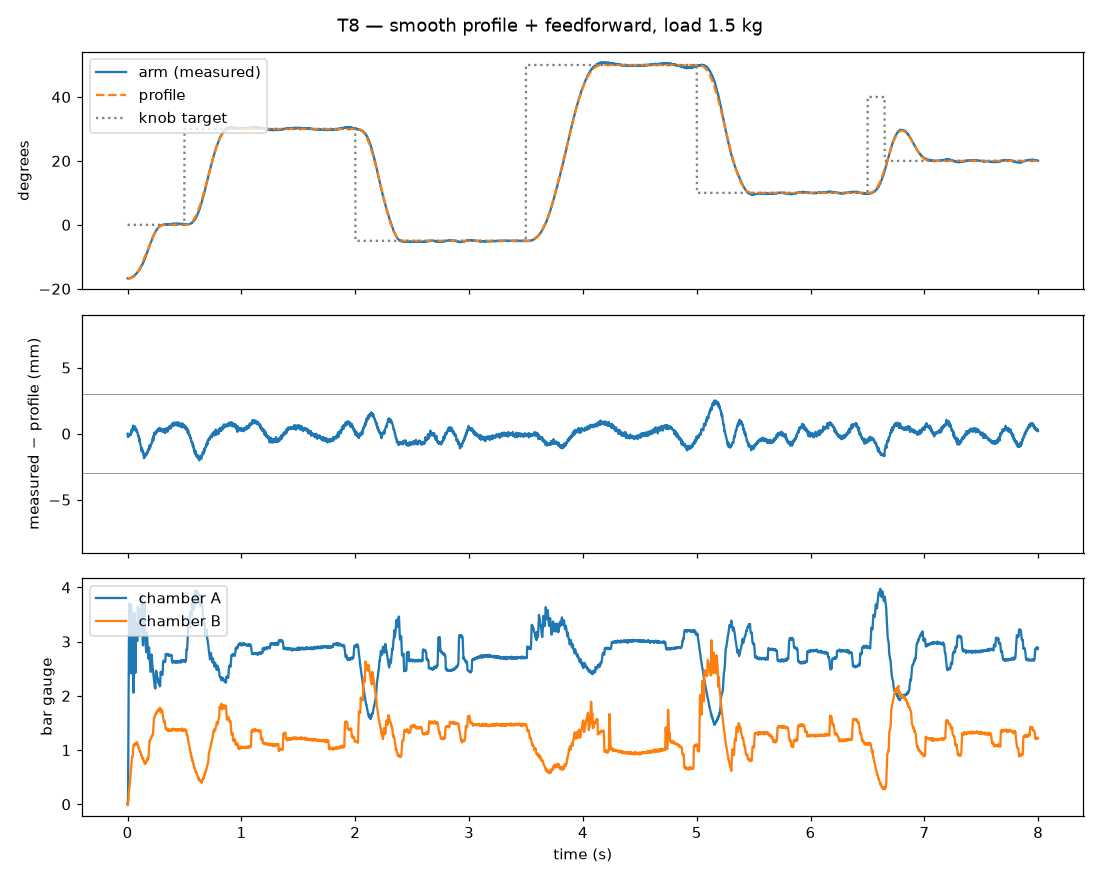
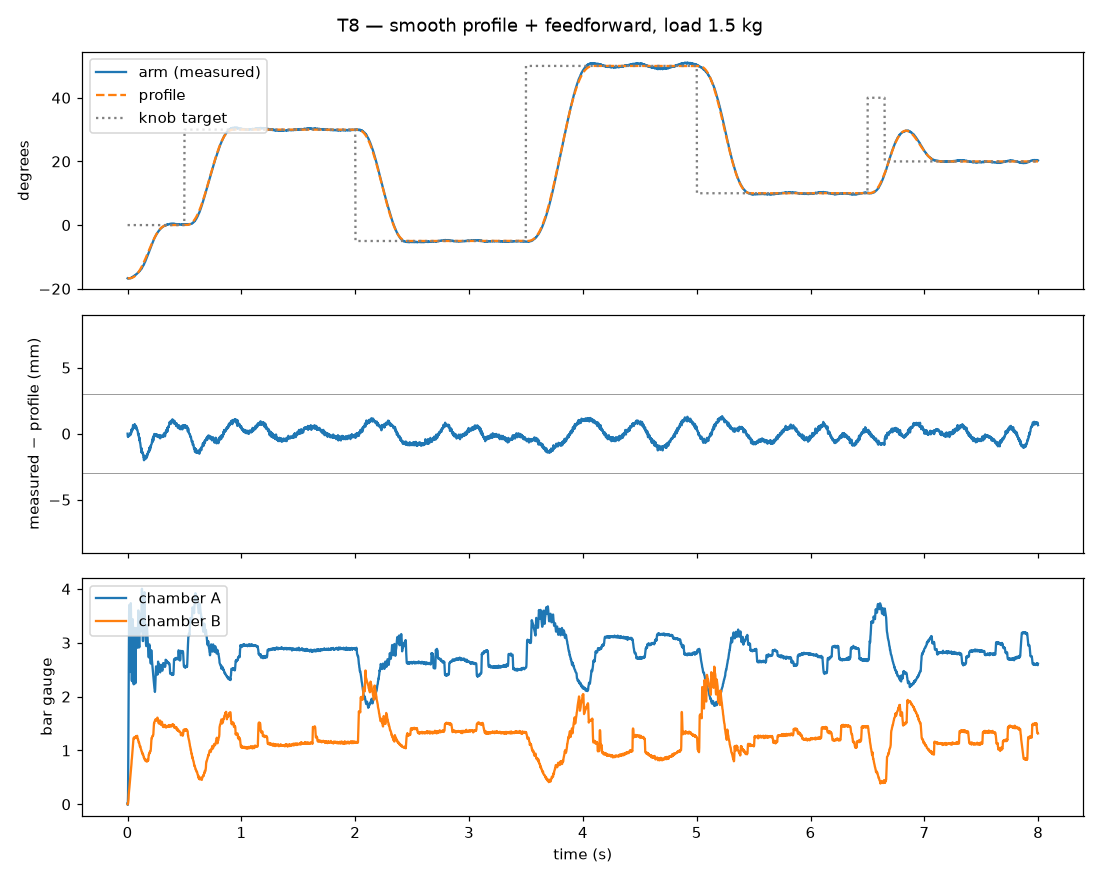
test1 T8: profile limits with 10% margin in time below the fastest that passes
170°/s, 1550°/s², 24000°/s³ (1.1× as fast still passes, 1.15× does not). Results
table now lists faster profiles as a factor and the load setting ±10% / ±20%.

diff --git a/test1/sim/run.py b/test1/sim/run.py
@@ -293,11 +293,14 @@ def scenario_t8_all():
     with Pool() as pool:
         res["default"] = t8_summary({}, pool)
         res["t3_controller"] = t8_summary(dict(mode=control.POSITION), pool)
+        # faster profiles: durations / k, so speed × k, acceleration × k², jerk × k³
         res["limits"] = []
-        for alpha in (1000.0, P.MOVE_ALPHA_MAX, 2000.0, 2500.0):
-            kw = dict(alpha_max=alpha, w_max=alpha / 10, cfg_over=dict(move_jerk_max=P.MOVE_JERK_MAX * alpha / P.MOVE_ALPHA_MAX))
-            res["limits"].append(dict(alpha_max=alpha, w_max=alpha / 10, **t8_summary(kw, pool)))
-        res["load_setting"] = [dict(load_kg=lk, **t8_summary(dict(load_kg=lk), pool)) for lk in (1.2, 1.8)]
+        for k in (1.1, 1.15, 1.3):
+            over = dict(move_w_max=P.MOVE_W_MAX * k, move_alpha_max=P.MOVE_ALPHA_MAX * k * k,
+                        move_jerk_max=P.MOVE_JERK_MAX * k ** 3)
+            res["limits"].append(dict(k=k, **t8_summary(dict(cfg_over=over), pool)))
+        res["load_setting"] = [dict(load_kg=round(P.TIP_MASS * f, 2), **t8_summary(dict(load_kg=P.TIP_MASS * f), pool))
+                               for f in (0.9, 1.1, 0.8, 1.2)]
     return res
 
 
@@ -366,8 +369,7 @@ def write_markdown(res):
                 f"{m['replan_track_mm']} | {yn(m['passed'])} |")
     lines.append(srow(f"profile {P.MOVE_W_MAX:g}°/s, {P.MOVE_ALPHA_MAX:g}°/s² (params.py)", t8["default"]))
     for m in t8["limits"]:
-        if m["alpha_max"] != P.MOVE_ALPHA_MAX:
-            lines.append(srow(f"profile {m['w_max']:g}°/s, {m['alpha_max']:g}°/s²", m))
+        lines.append(srow(f"{m['k']:g}× as fast ({P.MOVE_W_MAX * m['k']:.0f}°/s, {P.MOVE_ALPHA_MAX * m['k'] ** 2:.0f}°/s²)", m))
     for m in t8["load_setting"]:
         lines.append(srow(f"load set to {m['load_kg']} kg (real {P.TIP_MASS} kg)", m))
     lines.append(srow(f"T3 controller (ramp {P.V_MAX:g} mm/s, no feedforward)", t8["t3_controller"]))

diff --git a/test1/params.py b/test1/params.py
@@ -79,10 +79,12 @@ P_DEADBAND = 0.1             # bar
 SOFT_LIMIT = 5.0             # mm, stay away from both end stops
 V_MAX = 250.0                # mm/s, maximum speed of the target (full stroke in ~0.6 s)
 P_MAX = 6.0                  # bar; above this: vent and, if it persists, fault
-# move (T8): smooth profile + feedforward; limits found with `python sim/run.py --t8`
-MOVE_W_MAX = 150.0           # degrees/s, peak speed of the arm in the profile
-MOVE_ALPHA_MAX = 1500.0      # degrees/s², peak acceleration of the arm in the profile
-MOVE_JERK_MAX = 25000.0      # degrees/s³: how fast the force may change (the valves need time to swap the pressures)
+# move (T8): smooth profile + feedforward. The fastest profile that meets the T8 criteria in
+# the simulation is about 1.1× this one (190°/s, 1900°/s²); these limits keep 10% margin
+# in time (speed × 1/1.1, acceleration × 1/1.1², jerk × 1/1.1³). See out/sim/results.md.
+MOVE_W_MAX = 170.0           # degrees/s, peak speed of the arm in the profile
+MOVE_ALPHA_MAX = 1550.0      # degrees/s², peak acceleration of the arm in the profile
+MOVE_JERK_MAX = 24000.0      # degrees/s³: how fast the force may change (the valves need time to swap the pressures)
 FF_FRICTION = CYL["friction_coulomb"]   # N, cylinder seal friction in the feedforward (measure in T3/T4)
 FF_VISCOUS = 0.0             # N·s/m
 

diff --git a/test1/firmware/config.py b/test1/firmware/config.py
@@ -20,9 +20,9 @@ CFG = {
     'pos_deadband': 0.3,
     'pos_deadband_out': 0.6,
     'v_hold': 5.0,
-    'move_w_max': 150.0,
-    'move_alpha_max': 1500.0,
-    'move_jerk_max': 25000.0,
+    'move_w_max': 170.0,
+    'move_alpha_max': 1550.0,
+    'move_jerk_max': 24000.0,
     'load_kg': 1.5,
     'arm_moment': 49.81,
     'arm_inertia': 14312.7,

diff --git a/test1/out/sim/results.md b/test1/out/sim/results.md
@@ -39,11 +39,11 @@ Load 1.5 kg strapped under the arm end, 5.0 bar. Knob targets 30°, -5°, 50°, 
 
 | Move | Profile (s) | Tracking (mm) | Overshoot (mm) | Settled after the profile (s) | Press → settled (s) | Passed |
 |---|---|---|---|---|---|---|
-| → 30° | 0.414 | 2.02 | 1.04 | 0.0 | 0.414 | yes |
-| → -5° | 0.442 | 1.62 | 1.12 | 0.0 | 0.442 | yes |
-| → 50° | 0.689 | 1.11 | 0.93 | 0.0 | 0.689 | yes |
-| → 10° | 0.504 | 2.52 | 1.16 | 0.0 | 0.504 | yes |
-| → 20° | 0.566 | 1.7 | 18.19 | 0.0 | 0.566 | yes |
+| → 30° | 0.447 | 1.52 | 1.09 | 0.0 | 0.447 | yes |
+| → -5° | 0.471 | 1.17 | 0.92 | 0.0 | 0.471 | yes |
+| → 50° | 0.609 | 1.42 | 1.28 | 0.0 | 0.609 | yes |
+| → 10° | 0.489 | 1.32 | 0.91 | 0.0 | 0.489 | yes |
+| → 20° | 0.646 | 0.85 | 18.09 | 0.0 | 0.646 | yes |
 
 (one run; the last row is the new target during a move: its overshoot is past the new, nearer target and does not count)
 
@@ -51,12 +51,14 @@ Load 1.5 kg strapped under the arm end, 5.0 bar. Knob targets 30°, -5°, 50°, 
 
 | Controller / setting | Tracking (mm) | Overshoot (mm) | Settled after the profile (s) | New target during a move: tracking (mm) | Passed |
 |---|---|---|---|---|---|
-| profile 150°/s, 1500°/s² (params.py) | 2.52 | 1.33 | 0.0 | 2.22 | yes |
-| profile 100°/s, 1000°/s² | 1.34 | 1.32 | 0.0 | 1.1 | yes |
-| profile 200°/s, 2000°/s² | 3.59 | 1.63 | 0.062 | 5.59 | no |
-| profile 250°/s, 2500°/s² | 9.23 | 9.58 | 0.476 | 15.11 | no |
-| load set to 1.2 kg (real 1.5 kg) | 3.5 | 1.97 | 0.0 | 2.8 | no |
-| load set to 1.8 kg (real 1.5 kg) | 2.52 | 1.64 | 0.37 | 2.5 | no |
+| profile 170°/s, 1550°/s² (params.py) | 1.99 | 1.53 | 0.0 | 1.57 | yes |
+| 1.1× as fast (187°/s, 1876°/s²) | 2.24 | 1.68 | 0.0 | 2.34 | yes |
+| 1.15× as fast (195°/s, 2050°/s²) | 5.87 | 2.02 | 0.08 | 8.66 | no |
+| 1.3× as fast (221°/s, 2620°/s²) | 7.95 | 6.61 | 0.453 | 14.96 | no |
+| load set to 1.35 kg (real 1.5 kg) | 1.88 | 1.78 | 0.0 | 1.42 | yes |
+| load set to 1.65 kg (real 1.5 kg) | 2.35 | 1.28 | 0.0 | 1.47 | yes |
+| load set to 1.2 kg (real 1.5 kg) | 2.63 | 2.08 | 0.205 | 2.05 | no |
+| load set to 1.8 kg (real 1.5 kg) | 2.15 | 1.46 | 0.0 | 1.37 | yes |
 | T3 controller (ramp 250 mm/s, no feedforward) | 21.15 | 9.32 | 0.743 | 24.45 | no |
 
 ![T8 with the T3 controller](t8_t3_controller.png)

diff --git a/test1/docs/design.md b/test1/docs/design.md
@@ -331,8 +331,9 @@ and adds to step 2:
 - **Profile of the arm angle:** a quintic from the current state to the target, so
   position, speed and acceleration are continuous. Planned in degrees, not in cylinder
   length: near the top the cylinder's lever is small and the same acceleration in mm
-  would need four times the force. Limits: speed 150°/s, acceleration 1500°/s², and a
-  limit on the jerk, because the valves need time to swap the pressures. A new target
+  would need four times the force. Limits: speed 170°/s, acceleration 1550°/s², and a
+  limit on the jerk, because the valves need time to swap the pressures. These keep 10%
+  margin in time: about 1.1× as fast still passes in the simulation, 1.15× does not. A new target
   during a move starts a new profile from the current speed and acceleration.
 - **Feedforward:** force = (gravity torque + inertia × planned angular acceleration) /
   lever, plus the seal friction in the direction of motion. The PID only corrects what is
@@ -357,7 +358,7 @@ Results with the current tuning (`out/sim/results.json`, plots in `out/sim/`):
 | T2 on/off control (3 bar) | stays 15–25 mm off target: PWM control is needed |
 | T6 stiffness (15 N extra, valves closed) | 14° deflection at 2 bar chamber pressure, 10° at 5 bar |
 | T7 load | target reached up to 3.5 kg (78% load), but within 1 s only around the tuning load (1.5 kg); not at 100% |
-| T8 knob and button | 30° in 0.41 s, largest move (−5° → 50°) 0.69 s; follows the profile within 2.5 mm, overshoot ≤ 1.3 mm, at rest when the profile ends — passed. At 2000°/s² it fails; with the load set 20% wrong as well |
+| T8 knob and button | 30° in 0.45 s, largest move (−5° → 50°) 0.61 s; follows the profile within 2 mm, overshoot ≤ 1.5 mm, at rest when the profile ends — passed. 1.15× as fast fails; so does the load set 20% too light, 10% off passes |
 
 Exact numbers per run: [`../out/sim/results.md`](../out/sim/results.md).
 T7 already shows that the tuning belongs to the load. The arm will probably need tuning

diff --git a/test1/docs/manual.md b/test1/docs/manual.md
@@ -371,14 +371,15 @@ the cylinder's friction.
 
 **T8, the last test:** the arm goes to the angle chosen with a knob, fast and smoothly.
 The Pico plans a smooth profile (speed and acceleration build up and die out gradually,
-at most 150°/s and 1500°/s²) and pushes ahead with the force that profile needs:
+at most 170°/s and 1550°/s², 10% slower than the fastest profile that still passes in
+the simulation) and pushes ahead with the force that profile needs:
 gravity, the acceleration of arm and load, and the cylinder's friction. Two things
 differ from the other tests:
 - The bottle is strapped under the end of the arm (tape or cable ties) instead of hanging
   on the hook: a swinging bottle would set the arm swinging too, and the gripper of the
   real arm also holds its load firmly.
-- The feedforward needs the weight of the load: weigh the bottle and enter it. 20% off is
-  already enough to miss the criteria in the simulation.
+- The feedforward needs the weight of the load: weigh the bottle and enter it. In the
+  simulation 10% off still passes; 20% too light does not.
 The knob and button need their own parts (order 6 in the bill of materials) and are
 wired to the breadboard; the wiring and the firmware command follow.
 

diff --git a/test1/README.md b/test1/README.md
@@ -28,7 +28,7 @@ with a load on it?**
 simulation meets them with the current tuning; see the [results](out/sim/results.md).
 
 **Last test** (T8): choose an angle with a knob, press a button, and the arm goes there
-fast and smoothly: in the simulation 30° in 0.4 s, following a smooth profile within
+fast and smoothly: in the simulation 30° in 0.45 s, following a smooth profile within
 3 mm, without overshoot worth mentioning.
 
 ## What is in this package
